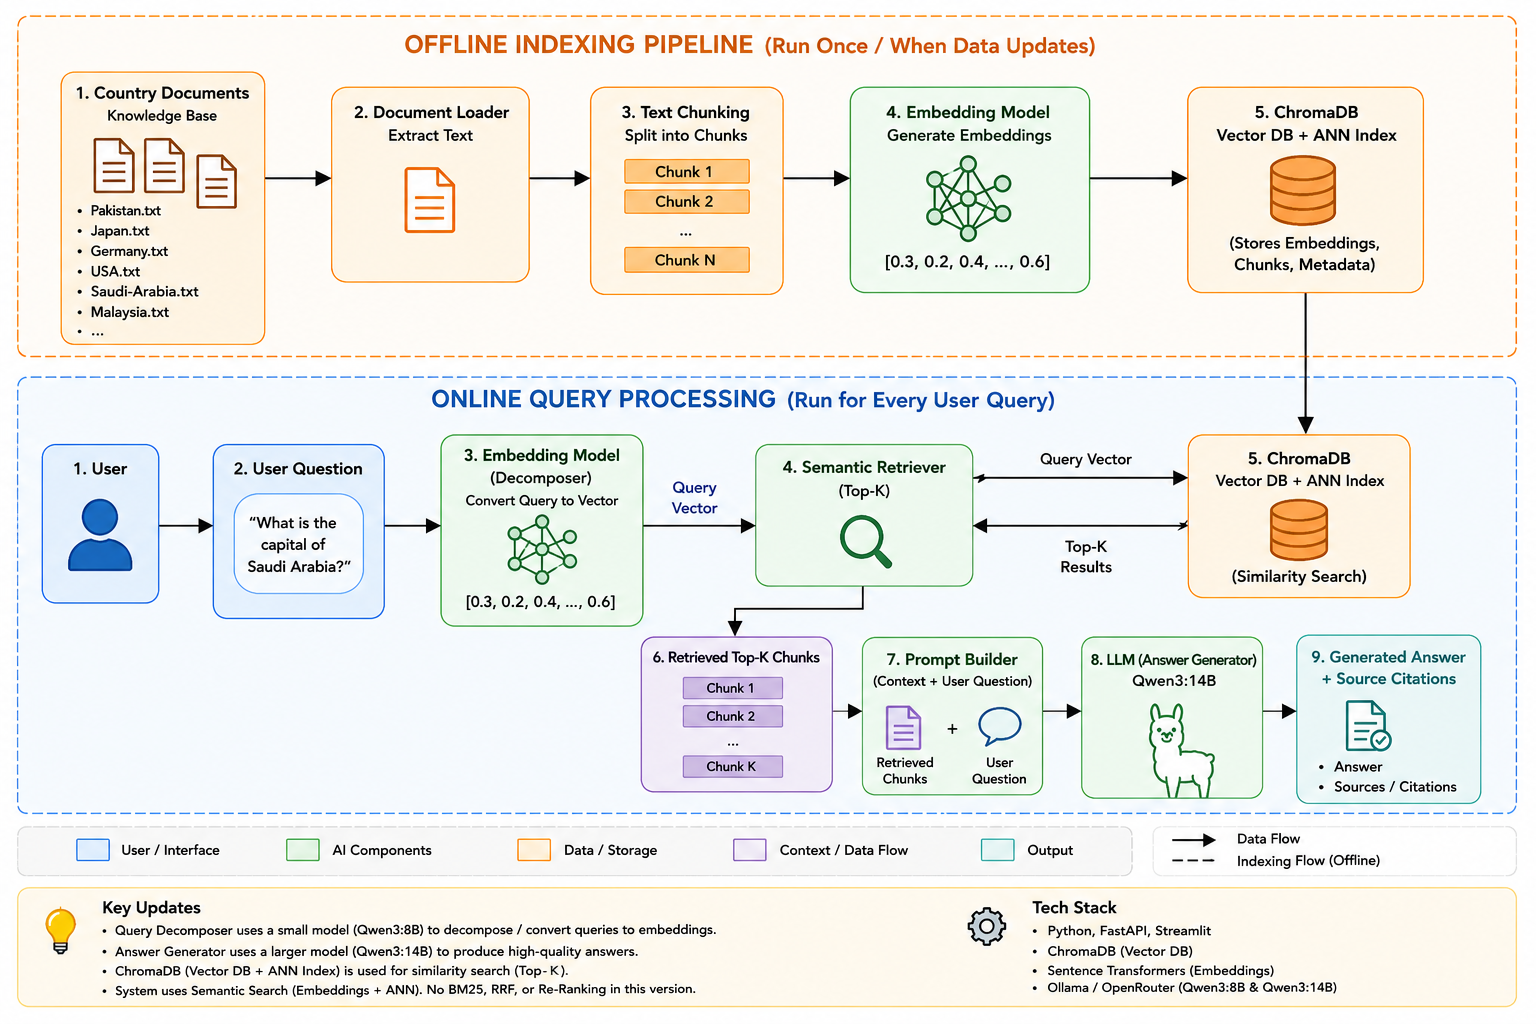
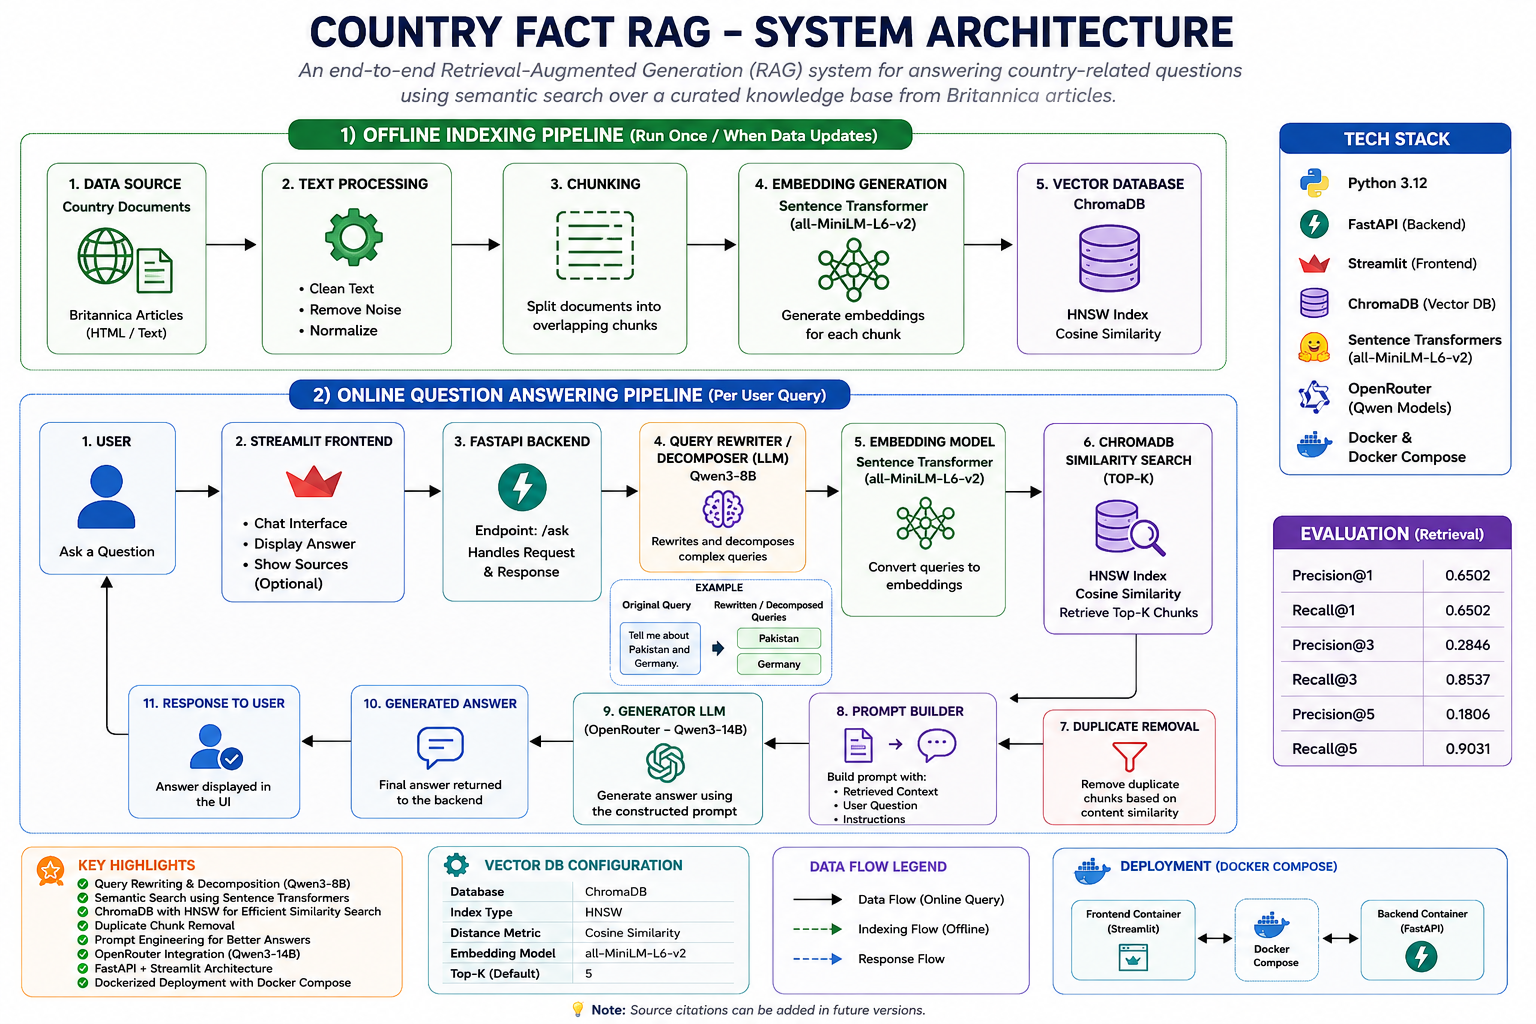
updated ReadMe

diff --git a/README.md b/README.md
@@ -9,6 +9,8 @@
 
 A production-style **Retrieval-Augmented Generation (RAG)** application that answers country-related questions using semantic search over a curated knowledge base built from **Britannica** articles.
 
+The knowledge base was automatically created using a custom data pipeline that scrapes Britannica articles through the **Zyte API**, processes the content, generates embeddings, and indexes them into ChromaDB for semantic retrieval.
+
 The project demonstrates an end-to-end RAG pipeline, including dataset creation, document preprocessing, vector indexing, semantic retrieval, query decomposition, prompt construction, LLM-based answer generation, a **FastAPI backend**, a **Streamlit frontend**, and **Dockerized deployment**.
 
 ---
@@ -16,6 +18,7 @@ The project demonstrates an end-to-end RAG pipeline, including dataset creation,
 # ✨ Features
 
 - 🌍 Country Question Answering
+- 🌐 Automated Dataset Creation using Zyte API
 - 🔍 Semantic Retrieval using ChromaDB
 - 🧠 Sentence Transformer Embeddings (`all-MiniLM-L6-v2`)
 - ✍ Query Decomposition for Multi-Country Queries
@@ -35,39 +38,8 @@ The project demonstrates an end-to-end RAG pipeline, including dataset creation,
 
 # 🏗 System Architecture
 
-```text
-                    User
-                      │
-                      ▼
-          Streamlit Frontend (UI)
-                      │
-             HTTP Request (/ask)
-                      │
-                      ▼
-              FastAPI Backend
-                      │
-                      ▼
-          Query Decomposition LLM
-                      │
-                      ▼
-     Sentence Transformer Embeddings
-                      │
-                      ▼
-              ChromaDB Vector DB
-                      │
-           Retrieve Top-K Chunks
-                      │
-          Duplicate Chunk Removal
-                      │
-                      ▼
-             Prompt Construction
-                      │
-                      ▼
-            OpenRouter LLM (Qwen)
-                      │
-                      ▼
-              Generated Response
-```
+
+![Architecture](images/high_level_DIagram.png)
 
 ---
 
@@ -109,6 +81,33 @@ datasets/
 ├── chunks/       # Chunked documents
 └── datalinks/    # Source metadata
 ```
+
+---
+
+# 🕸 Dataset Creation Pipeline
+
+The country knowledge base is automatically generated using a custom data pipeline.
+
+### Data Source
+
+- Britannica Encyclopedia
+
+### Web Scraping
+
+The project uses the **Zyte API** to retrieve Britannica pages while handling anti-bot protections that prevent traditional web scraping.
+
+### Processing Steps
+
+1. Scrape Britannica articles using the Zyte API.
+2. Parse the HTML content.
+3. Extract the relevant article sections.
+4. Convert the extracted content into structured JSON.
+5. Generate plain text documents.
+6. Split documents into overlapping chunks.
+7. Generate embeddings using Sentence Transformers.
+8. Store embeddings and metadata inside ChromaDB.
+
+This pipeline allows the knowledge base to be regenerated whenever new countries or updated content need to be indexed.
 
 ---
 
@@ -158,6 +157,8 @@ datasets/
 | Language | Python |
 | Backend | FastAPI |
 | Frontend | Streamlit |
+| Web Scraping | Zyte API |
+| Data Source | Britannica Encyclopedia |
 | Vector Database | ChromaDB |
 | Embedding Model | all-MiniLM-L6-v2 |
 | LLM | Qwen (OpenRouter) |
